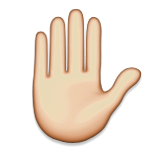
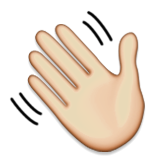
test

diff --git a/index.html b/index.html
@@ -1,0 +1,77 @@
+<!DOCTYPE html>
+<html>
+  <head>
+    <meta charset="utf-8">
+    <title>Slap It!</title>
+    <link rel="stylesheet" href="https://maxcdn.bootstrapcdn.com/bootstrap/3.3.6/css/bootstrap.min.css" media="screen" title="no title" charset="utf-8">
+    <script src="https://code.jquery.com/jquery-3.1.0.min.js" integrity="sha256-cCueBR6CsyA4/9szpPfrX3s49M9vUU5BgtiJj06wt/s=" crossorigin="anonymous"></script>
+
+    <style media="screen">
+      .hand {
+        position: absolute;
+      }
+    </style>
+  </head>
+  <body>
+    <br>
+    <div class="container">
+      <div class="row">
+        <div class="col-xs-11">
+          <input type="text" class="form-control" placeholder="paste an image url here.">
+        </div>
+        <div class="col-xs-1">
+          <button id="go" class="btn">Go</button>
+        </div>
+      </div>
+    </div>
+
+    <div class="container">
+      <div class="class">
+
+      </div>
+    </div>
+
+    <script type="text/javascript">
+      if (getParameterByName('imageUrl')) {
+        // place imageUrl
+
+        // setup click event
+        // setupClickHandler()
+
+      }
+
+      $("button").click(function (e) {
+        var url = $('input').val()
+        var imageUrl = {"imageUrl": url}
+        window.history.pushState(null, null, "?" + $.param(imageUrl))
+      })
+
+      function getParameterByName(name, url) {
+        if (!url) url = window.location.href;
+        name = name.replace(/[\[\]]/g, "\\$&");
+        var regex = new RegExp("[?&]" + name + "(=([^&#]*)|&|#|$)"),
+            results = regex.exec(url);
+        if (!results) return null;
+        if (!results[2]) return '';
+        return decodeURIComponent(results[2].replace(/\+/g, " "));
+      }
+
+      function setupClickHandler() {
+        $(window).on('click', function (e){
+          var hand = $('<div class="hand"><img src="hand.png" alt="" /></div>')
+
+          hand.clone()
+              .css({left:e.pageX - 80, top: e.pageY - 80})
+              .appendTo('body')
+              .fadeOut()
+
+          var sound = new Audio('slap.m4a')
+          sound.play()
+
+        })
+      }
+
+    </script>
+
+  </body>
+</html>
